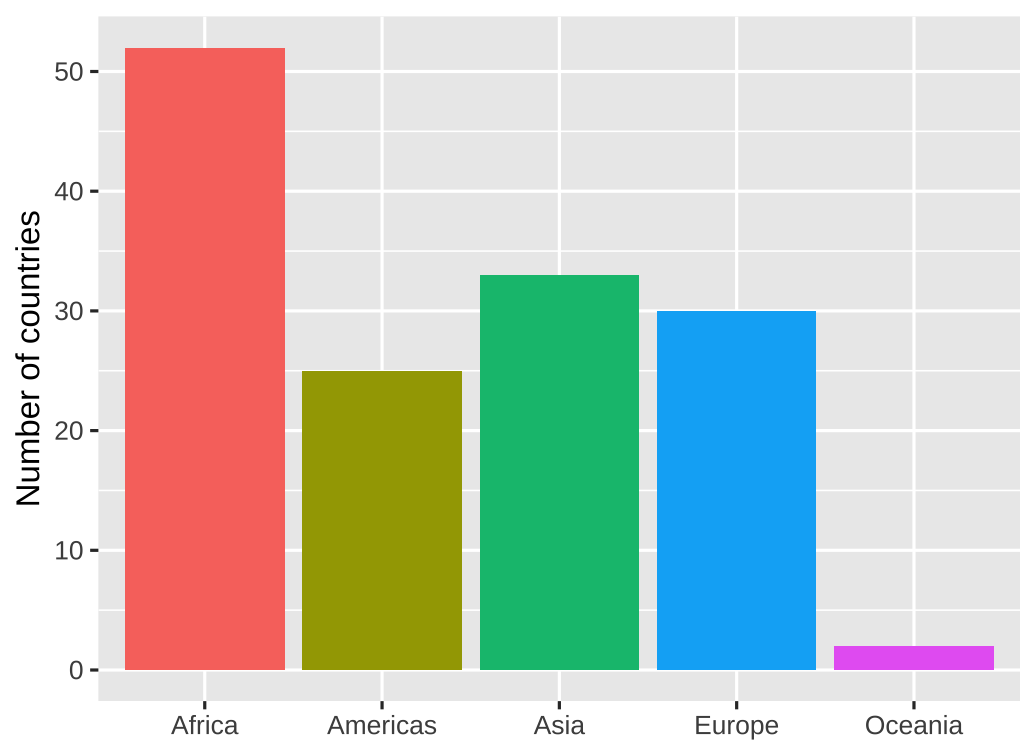
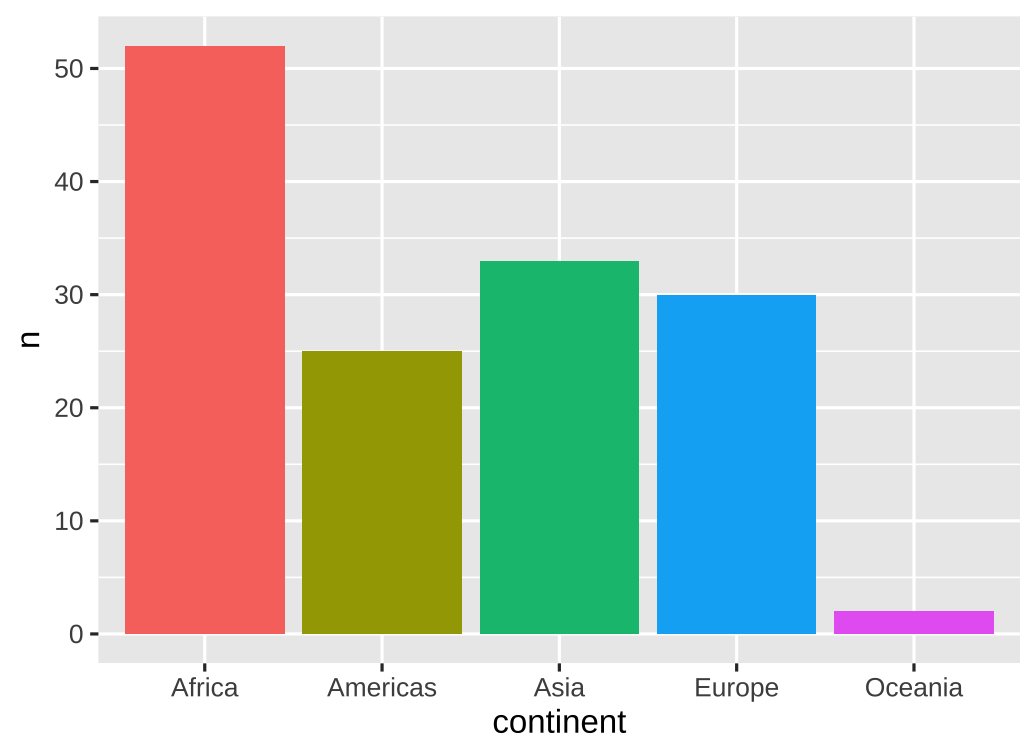
revise 06-slides

diff --git a/content/slides/06-slides.html b/content/slides/06-slides.html
@@ -358,7 +358,7 @@ gapminder_continents
 ggplot(data = gapminder_continents,
        aes(x = continent, # map continent to x
            y = n)) + # map n (num countries) to y
-  geom_col() # add bars
+* geom_col() # add bars
 ```
 How could we improve this?
 ]
@@ -371,7 +371,7 @@ How could we improve this?
 
 ---
 
-# Add some color and labels
+# Add some color
 
 .left-code.small-code[
 
@@ -379,16 +379,67 @@ How could we improve this?
 ```r
 ggplot(gapminder_continents, 
        aes(x = continent, y = n, 
-*          fill = continent)) +
-  geom_col() +
-* guides(fill = "none") + # omit fill legend
-* labs(x = NULL, y = "Number of countries")
+*          fill = continent)) + # color bars
+  geom_col()
 ```
+
+Do we need the fill legend?
+]
+
+.right-plot[
+
+![](06-slides_files/figure-html/gapminder-bars-colored-legend-1.png)
+
+]
+
+---
+
+# Add some color
+
+.left-code.small-code[
+
+
+```r
+ggplot(gapminder_continents, 
+       aes(x = continent, y = n, 
+           fill = continent)) +
+  geom_col() +
+* guides(fill = "none") # omit fill legend
+```
+
+Is "n" a good axis title?
+
+Do we need "continent" at all?
 ]
 
 .right-plot[
 
 ![](06-slides_files/figure-html/gapminder-bars-colored-1.png)
+
+]
+
+---
+
+# Add some labels
+
+.left-code.small-code[
+
+
+```r
+ggplot(gapminder_continents, 
+       aes(x = continent, y = n, 
+           fill = continent)) + 
+  geom_col() +
+  guides(fill = "none") +
+* labs(x = NULL, y = "Number of countries")
+```
+
+Is alphabetical the best ordering?
+]
+
+.right-plot[
+
+![](06-slides_files/figure-html/gapminder-bars-labeled-1.png)
 
 ]
 
